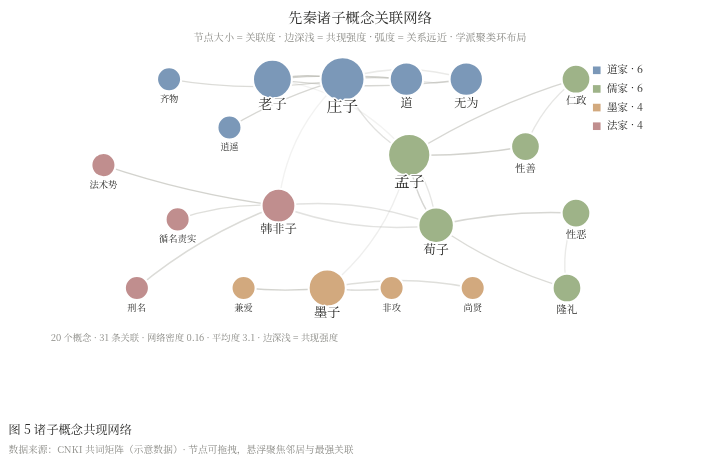
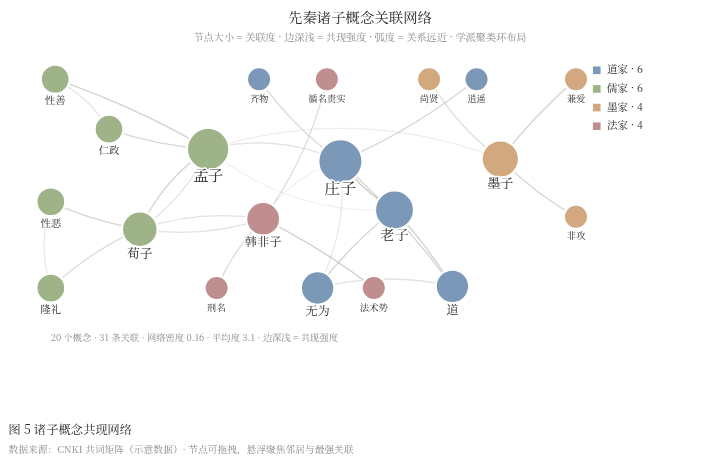
fix: 关联图去掉固定环质心 —— 学派位置由力涌现
- 删掉写死在圆环上的四个组质心（那是四角钉死的根源）
- 改为每帧实时计算各组成员均值作为动态质心，节点向自己组的实时重心聚拢
- 初始位置中心随机撒，聚在哪、离多远全由斥力/弹簧/聚类力自然形成
- 顺带：bump.sh 修正版本参数正则，样例 JSON 加载也带版本号

diff --git a/src/charts/network.js b/src/charts/network.js
@@ -1,9 +1,9 @@
 /* ============ 关联网络图（力导向 · 聚类环布局 · 弧形发丝边 · 可拖拽） ============ */
 /* 边不用粗细编码：深浅 = 共现强度，弧度 = 关系远近；学派各自聚拢，互不挤压 */
 
-import { el, text, INK, colors } from '../core/svg.js?v=20261111c';
-import { caption, figureNote, legend } from '../core/axis.js?v=20261111c';
-import { tip, tipHide } from '../core/tip.js?v=20261111c';
+import { el, text, INK, colors } from '../core/svg.js?v=20261111d';
+import { caption, figureNote, legend } from '../core/axis.js?v=20261111d';
+import { tip, tipHide } from '../core/tip.js?v=20261111d';
 
 /*
  * data = {
@@ -28,27 +28,18 @@ export function draw(svg, data, o = {}) {
   const deg = {};
   data.edges.forEach(e => { deg[e.a] = (deg[e.a] || 0) + 1; deg[e.b] = (deg[e.b] || 0) + 1; });
 
-  /* 学派质心：圆环分布（1 组时居中） */
+  /* 学派分组（图例用；质心不预设——每帧动态计算，聚在哪由力涌现） */
   const gset = [...new Set(data.nodes.map(n => n.group ?? 0))].sort((a, b) => a - b);
   const nG = gset.length;
-  const R = Math.min(plot.x1 - plot.x0, plot.y1 - plot.y0) * (nG > 1 ? .17 : 0);
-  const GC = {};
-  gset.forEach((g, i) => {
-    const th = (i / nG) * Math.PI * 2 - Math.PI / 2;
-    GC[g] = { x: cx + R * Math.cos(th), y: cy + R * Math.sin(th) };
-  });
 
-  /* 节点：初始位置撒在自家质心附近（收敛快、分布稳） */
-  const N = data.nodes.map(n => {
-    const g = GC[n.group ?? 0] || { x: cx, y: cy };
-    return {
-      ...n,
-      size: n.size ?? (2.3 + Math.min(3.6, (deg[n.id] || 1) * .55)),
-      x: g.x + (Math.random() - .5) * 16,
-      y: g.y + (Math.random() - .5) * 16,
-      vx: 0, vy: 0, fixed: false, rx: 3
-    };
-  });
+  /* 节点：初始位置中心附近随机撒 */
+  const N = data.nodes.map(n => ({
+    ...n,
+    size: n.size ?? (2.3 + Math.min(3.6, (deg[n.id] || 1) * .55)),
+    x: cx + (Math.random() - .5) * 30,
+    y: cy + (Math.random() - .5) * 30,
+    vx: 0, vy: 0, fixed: false, rx: 3
+  }));
   const byId = Object.fromEntries(N.map(n => [n.id, n]));
   const E = data.edges.map((e, i) => ({ ...e, i, A: byId[e.a], B: byId[e.b] })).filter(e => e.A && e.B);
   const maxW = Math.max(...E.map(e => e.w || 1), 1);
@@ -96,13 +87,12 @@ export function draw(svg, data, o = {}) {
   const hasLegend = gnames.length || nG > 1;
   const simBounds = { x0: plot.x0, x1: hasLegend ? W - 34 : plot.x1, y0: plot.y0, y1: H - footH - 16 };
   const sim = d3like(N, E, {
-    charge: -560,
+    charge: -620,
     linkRest: e => {
       const base = Math.min(plot.x1 - plot.x0, plot.y1 - plot.y0) * .1 + 11;
       return base * (.8 + .35 * (1 - (e.w || 1) / maxW));   // 弱关联略远、强关联贴近
     },
-    cluster: .03,
-    GC,
+    cluster: .065,
     bounds: simBounds
   });
 
@@ -188,13 +178,20 @@ function toSvg(svg, ev) {
   return { x: (ev.clientX - r.left) / r.width * +svg.getAttribute('width'), y: (ev.clientY - r.top) / r.height * +svg.getAttribute('height') };
 }
 
-/* 迷你力导向（零依赖：斥力 + 聚类重力 + 权重弹簧 + 向心 + alpha 衰减 + 标签防叠硬分离） */
-function d3like(N, E, { charge, linkRest, cluster, GC, bounds }) {
+/* 迷你力导向（零依赖：斥力 + 动态聚类重力 + 权重弹簧 + 向心 + alpha 衰减 + 标签防叠硬分离）
+ * 聚类引力拉向每帧实时计算的组质心（成员均值）——不预设任何位置，分组形态由力涌现 */
+function d3like(N, E, { charge, linkRest, cluster, bounds }) {
   let alpha = 1, running = true, raf = null, stopT = null;
   const center = { x: (bounds.x0 + bounds.x1) / 2, y: (bounds.y0 + bounds.y1) / 2 };
   function step() {
     if (!running) return;
     const a = alpha;
+    /* 动态组质心：本帧各组成员位置均值 */
+    const sums = {};
+    for (const n of N) {
+      const g = n.group ?? 0;
+      (sums[g] = sums[g] || [0, 0, 0]), sums[g][0] += n.x, sums[g][1] += n.y, sums[g][2]++;
+    }
     for (let i = 0; i < N.length; i++) {
       const A = N[i];
       for (let j = i + 1; j < N.length; j++) {
@@ -219,8 +216,11 @@ function d3like(N, E, { charge, linkRest, cluster, GC, bounds }) {
     }
     let energy = 0;
     for (const n of N) {
-      const g = GC[n.group ?? 0];
-      if (g) { n.vx += (g.x - n.x) * cluster * a; n.vy += (g.y - n.y) * cluster * a; }
+      const s = sums[n.group ?? 0];
+      if (s && s[2] > 1) {                       // 组内 >1 个节点才向动态质心聚拢
+        n.vx += (s[0] / s[2] - n.x) * cluster * a;
+        n.vy += (s[1] / s[2] - n.y) * cluster * a;
+      }
       n.vx += (center.x - n.x) * .002 * a; n.vy += (center.y - n.y) * .002 * a;
       if (n.fixed) { n.vx = n.vy = 0; continue; }
       n.vx *= .82; n.vy *= .82;

diff --git a/src/app.js b/src/app.js
@@ -1,25 +1,25 @@
 /* ============ 应用外壳：图表切换 / 尺寸预设 / 配色 / 数据编辑 / 导出 ============ */
 
-import { PAL, PALETTES } from './core/svg.js?v=20261111c';
-import { draw as trend } from './charts/trend.js?v=20261111c';
-import { draw as bars } from './charts/bars.js?v=20261111c';
-import { draw as heatmap } from './charts/heatmap.js?v=20261111c';
-import { draw as radar } from './charts/radar.js?v=20261111c';
-import { draw as network } from './charts/network.js?v=20261111c';
-import { draw as raincloud } from './charts/raincloud.js?v=20261111c';
-import { draw as upset } from './charts/upset.js?v=20261111c';
-import { draw as slope } from './charts/slope.js?v=20261111c';
-import { draw as thematic } from './charts/thematic.js?v=20261111c';
-import { draw as dotplot } from './charts/dotplot.js?v=20261111c';
-import { draw as forest } from './charts/forest.js?v=20261111c';
-import { draw as estimation } from './charts/estimation.js?v=20261111c';
-import { draw as ridgeline } from './charts/ridgeline.js?v=20261111c';
-import { draw as blandaltman } from './charts/blandaltman.js?v=20261111c';
-import { draw as kaplanmeier } from './charts/kaplanmeier.js?v=20261111c';
-import { draw as roc } from './charts/roc.js?v=20261111c';
-import { draw as qq } from './charts/qq.js?v=20261111c';
-import { draw as stl } from './charts/stl.js?v=20261111c';
-import { exportSVG, exportPNG, exportPDF } from './export.js?v=20261111c';
+import { PAL, PALETTES } from './core/svg.js?v=20261111d';
+import { draw as trend } from './charts/trend.js?v=20261111d';
+import { draw as bars } from './charts/bars.js?v=20261111d';
+import { draw as heatmap } from './charts/heatmap.js?v=20261111d';
+import { draw as radar } from './charts/radar.js?v=20261111d';
+import { draw as network } from './charts/network.js?v=20261111d';
+import { draw as raincloud } from './charts/raincloud.js?v=20261111d';
+import { draw as upset } from './charts/upset.js?v=20261111d';
+import { draw as slope } from './charts/slope.js?v=20261111d';
+import { draw as thematic } from './charts/thematic.js?v=20261111d';
+import { draw as dotplot } from './charts/dotplot.js?v=20261111d';
+import { draw as forest } from './charts/forest.js?v=20261111d';
+import { draw as estimation } from './charts/estimation.js?v=20261111d';
+import { draw as ridgeline } from './charts/ridgeline.js?v=20261111d';
+import { draw as blandaltman } from './charts/blandaltman.js?v=20261111d';
+import { draw as kaplanmeier } from './charts/kaplanmeier.js?v=20261111d';
+import { draw as roc } from './charts/roc.js?v=20261111d';
+import { draw as qq } from './charts/qq.js?v=20261111d';
+import { draw as stl } from './charts/stl.js?v=20261111d';
+import { exportSVG, exportPNG, exportPDF } from './export.js?v=20261111d';
 
 const CHARTS = {
   trend: { name: '趋势图', mod: trend },
@@ -59,7 +59,7 @@ const state = {
 const $ = s => document.querySelector(s);
 
 async function loadSamples() {
-  const list = await (await fetch('./samples/index.json')).json();
+  const list = await (await fetch('./samples/index.json?v=20261111d')).json();
   const sel = $('#sampleSel');
   sel.innerHTML = '';
   for (const s of list) {
@@ -74,7 +74,7 @@ async function loadSamples() {
 }
 
 async function loadSample(file, type, resetType) {
-  const j = await (await fetch('./samples/' + file)).json();
+  const j = await (await fetch('./samples/' + file + '?v=20261111d')).json();
   if (j.type && CHARTS[j.type]) { state.type = j.type; autoSize(j.type); }
   state.data = j.data;
   state.meta = { ...j.opts };
@@ -174,7 +174,7 @@ buildUI();
 loadSamples().catch(async e => {
   /* file:// 直开时 fetch 失败 → 内嵌兜底数据 */
   console.warn(e);
-  const { FALLBACK } = await import('./fallback.js?v=20261111c');
+  const { FALLBACK } = await import('./fallback.js?v=20261111d');
   state.type = 'trend'; state.data = FALLBACK.data; state.meta = { ...FALLBACK.opts };
   syncForm(); render();
 });

diff --git a/src/charts/stl.js b/src/charts/stl.js
@@ -1,10 +1,10 @@
 /* ============ 时间序列分解（观测 = 趋势 + 季节 + 残差，经典分解） ============ */
 /* 四联面板：趋势漂移、季节模式、残差白噪——时间序列的第一诊断图 */
 
-import { el, text, INK, colors } from '../core/svg.js?v=20261111c';
-import { caption, figureNote, fmt } from '../core/axis.js?v=20261111c';
-import { niceTicks, linear, smoothPath } from '../core/scale.js?v=20261111c';
-import { tip, tipHide } from '../core/tip.js?v=20261111c';
+import { el, text, INK, colors } from '../core/svg.js?v=20261111d';
+import { caption, figureNote, fmt } from '../core/axis.js?v=20261111d';
+import { niceTicks, linear, smoothPath } from '../core/scale.js?v=20261111d';
+import { tip, tipHide } from '../core/tip.js?v=20261111d';
 
 /*
  * data = { t: [0..n-1 序号或年月数值], values: [..], period: 12 }

diff --git a/src/charts/kaplanmeier.js b/src/charts/kaplanmeier.js
@@ -1,10 +1,10 @@
 /* ============ Kaplan-Meier 生存曲线（时间到事件 + 删失 + log-rank + 风险表） ============ */
 /* Kaplan & Meier 1958 —— 生存分析的标准图， Greenwood CI · Mantel-Haenszel log-rank */
 
-import { el, text, INK, colors } from '../core/svg.js?v=20261111c';
-import { caption, figureNote, fmt } from '../core/axis.js?v=20261111c';
-import { niceTicks, linear } from '../core/scale.js?v=20261111c';
-import { tip, tipHide } from '../core/tip.js?v=20261111c';
+import { el, text, INK, colors } from '../core/svg.js?v=20261111d';
+import { caption, figureNote, fmt } from '../core/axis.js?v=20261111d';
+import { niceTicks, linear } from '../core/scale.js?v=20261111d';
+import { tip, tipHide } from '../core/tip.js?v=20261111d';
 
 /* 误差函数补（log-rank p 值用， A&S 7.1.26） */
 const erfc = x => {

diff --git a/src/charts/qq.js b/src/charts/qq.js
@@ -1,10 +1,10 @@
 /* ============ Q-Q 图（分布正态性检查：样本分位数 vs 理论分位数） ============ */
 /* 检查分布假设的第一图 —— 点贴线 = 正态 */
 
-import { el, text, INK, colors } from '../core/svg.js?v=20261111c';
-import { caption, figureNote, fmt } from '../core/axis.js?v=20261111c';
-import { niceTicks, linear } from '../core/scale.js?v=20261111c';
-import { tip, tipHide } from '../core/tip.js?v=20261111c';
+import { el, text, INK, colors } from '../core/svg.js?v=20261111d';
+import { caption, figureNote, fmt } from '../core/axis.js?v=20261111d';
+import { niceTicks, linear } from '../core/scale.js?v=20261111d';
+import { tip, tipHide } from '../core/tip.js?v=20261111d';
 
 /* 标准正态分位数函数 Φ⁻¹（A&S 26.2.23，|ε| < 4.5e-4，画图足够） */
 const qnorm = p => {

diff --git a/src/charts/roc.js b/src/charts/roc.js
@@ -1,10 +1,10 @@
 /* ============ ROC 曲线（诊断准确性 + AUC + Youden 最佳切点） ============ */
 /* signal detection —— 灵敏度 / 特异度权衡的标准呈现 */
 
-import { el, text, INK, colors } from '../core/svg.js?v=20261111c';
-import { caption, figureNote, fmt } from '../core/axis.js?v=20261111c';
-import { linear, mulberry32 } from '../core/scale.js?v=20261111c';
-import { tip, tipHide } from '../core/tip.js?v=20261111c';
+import { el, text, INK, colors } from '../core/svg.js?v=20261111d';
+import { caption, figureNote, fmt } from '../core/axis.js?v=20261111d';
+import { linear, mulberry32 } from '../core/scale.js?v=20261111d';
+import { tip, tipHide } from '../core/tip.js?v=20261111d';
 
 /* 秩法 AUC（含并列平均秩） */
 function aucRank(pos, neg) {

diff --git a/src/charts/estimation.js b/src/charts/estimation.js
@@ -1,10 +1,10 @@
 /* ============ 估计图（Gardner-Altman：效应量 + bootstrap CI） ============ */
 /* estimation statistics 运动：不报 p 值，直接画效应大小与不确定性 */
 
-import { el, text, INK, colors } from '../core/svg.js?v=20261111c';
-import { caption, figureNote, fmt } from '../core/axis.js?v=20261111c';
-import { niceTicks, linear, kde, mulberry32 } from '../core/scale.js?v=20261111c';
-import { tip, tipHide } from '../core/tip.js?v=20261111c';
+import { el, text, INK, colors } from '../core/svg.js?v=20261111d';
+import { caption, figureNote, fmt } from '../core/axis.js?v=20261111d';
+import { niceTicks, linear, kde, mulberry32 } from '../core/scale.js?v=20261111d';
+import { tip, tipHide } from '../core/tip.js?v=20261111d';
 
 /*
  * data = {

diff --git a/src/charts/ridgeline.js b/src/charts/ridgeline.js
@@ -1,10 +1,10 @@
 /* ============ 山脊图（多分布错层叠放：分布随类别/时间的漂移） ============ */
 /* ridgeline / joyplot —— 20 个小直方图的优雅替身 */
 
-import { el, text, INK, colors } from '../core/svg.js?v=20261111c';
-import { caption, figureNote, fmt } from '../core/axis.js?v=20261111c';
-import { niceTicks, linear, kde, smoothPath } from '../core/scale.js?v=20261111c';
-import { tip, tipHide } from '../core/tip.js?v=20261111c';
+import { el, text, INK, colors } from '../core/svg.js?v=20261111d';
+import { caption, figureNote, fmt } from '../core/axis.js?v=20261111d';
+import { niceTicks, linear, kde, smoothPath } from '../core/scale.js?v=20261111d';
+import { tip, tipHide } from '../core/tip.js?v=20261111d';
 
 /*
  * data = {

diff --git a/src/charts/blandaltman.js b/src/charts/blandaltman.js
@@ -1,10 +1,10 @@
 /* ============ Bland-Altman 图（两种测量的一致性：Tukey 均值-差图） ============ */
 /* Bland & Altman 1986, The Lancet —— 方法学比对/评分员信度的标准图 */
 
-import { el, text, INK, colors } from '../core/svg.js?v=20261111c';
-import { caption, figureNote, fmt } from '../core/axis.js?v=20261111c';
-import { niceTicks, linear } from '../core/scale.js?v=20261111c';
-import { tip, tipHide } from '../core/tip.js?v=20261111c';
+import { el, text, INK, colors } from '../core/svg.js?v=20261111d';
+import { caption, figureNote, fmt } from '../core/axis.js?v=20261111d';
+import { niceTicks, linear } from '../core/scale.js?v=20261111d';
+import { tip, tipHide } from '../core/tip.js?v=20261111d';
 
 /*
  * data = {

diff --git a/src/charts/raincloud.js b/src/charts/raincloud.js
@@ -1,10 +1,10 @@
 /* ============ 雨云图（半小提琴 + 箱线 + 原始散点：新一代柱状图替身） ============ */
 /* Allen et al. 2019, Raincloud plots: a multi-platform tool... */
 
-import { el, text, INK, colors } from '../core/svg.js?v=20261111c';
-import { caption, figureNote, fmt } from '../core/axis.js?v=20261111c';
-import { niceTicks, linear } from '../core/scale.js?v=20261111c';
-import { tip, tipHide } from '../core/tip.js?v=20261111c';
+import { el, text, INK, colors } from '../core/svg.js?v=20261111d';
+import { caption, figureNote, fmt } from '../core/axis.js?v=20261111d';
+import { niceTicks, linear } from '../core/scale.js?v=20261111d';
+import { tip, tipHide } from '../core/tip.js?v=20261111d';
 
 /*
  * data = {

diff --git a/src/charts/forest.js b/src/charts/forest.js
@@ -1,10 +1,10 @@
 /* ============ 森林图（元分析合并效应：证据综合的招牌图） ============ */
 /* 逆方差权重 + DerSimonian-Laird 随机效应 + Q / I² 异质性检验 */
 
-import { el, text, INK, colors } from '../core/svg.js?v=20261111c';
-import { caption, figureNote, fmt } from '../core/axis.js?v=20261111c';
-import { niceTicks, linear } from '../core/scale.js?v=20261111c';
-import { tip, tipHide } from '../core/tip.js?v=20261111c';
+import { el, text, INK, colors } from '../core/svg.js?v=20261111d';
+import { caption, figureNote, fmt } from '../core/axis.js?v=20261111d';
+import { niceTicks, linear } from '../core/scale.js?v=20261111d';
+import { tip, tipHide } from '../core/tip.js?v=20261111d';
 
 /*
  * data = {

diff --git a/src/charts/thematic.js b/src/charts/thematic.js
@@ -1,10 +1,10 @@
 /* ============ 战略坐标图（密度 × 向心性四象限：文献计量主题定位） ============ */
 /* Cobo et al. 2011, bibliometrix thematic map */
 
-import { el, text, INK, colors } from '../core/svg.js?v=20261111c';
-import { caption, figureNote, fmt } from '../core/axis.js?v=20261111c';
-import { niceTicks, linear } from '../core/scale.js?v=20261111c';
-import { tip, tipHide } from '../core/tip.js?v=20261111c';
+import { el, text, INK, colors } from '../core/svg.js?v=20261111d';
+import { caption, figureNote, fmt } from '../core/axis.js?v=20261111d';
+import { niceTicks, linear } from '../core/scale.js?v=20261111d';
+import { tip, tipHide } from '../core/tip.js?v=20261111d';
 
 /*
  * data = {
